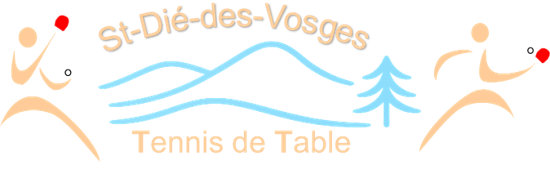
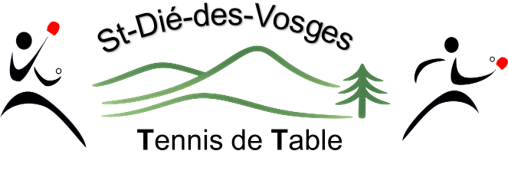
new header_green

diff --git a/style.css b/style.css
@@ -36,7 +36,7 @@ header {
   align-items: center;
   justify-content: space-between;
   flex-wrap: wrap;
-  background-color: #7B1E3A  ;/*FFFFFF; Rouge grenat   */
+  background-color: #FFFFF0;   /*  blanc cassé   7B1E3A  ; Rouge grenat   */
   font-family: 'Georgia', serif;
   color: white;
   padding: 5px 20px;
@@ -61,7 +61,7 @@ nav {
 
 nav button {
   background: none;
-  color: #FFCC99 ; /* black; /*white; */
+  color: black ; /* #FFCC99 ; /* black; /*white; */
   font-weight: bold;
   border: none;
   padding: 10px 15px;
@@ -70,7 +70,7 @@ nav button {
 }
 
 nav button:hover {
-  background-color: #87CEFA; /*  bleu clair pastel */
+  background-color: #A3C98B  ; /*  vert clair  #87CEFA; /*  bleu clair pastel */
   border-radius: 4px;
   color: #8b0000; /*  #8b0000;*/
 }
